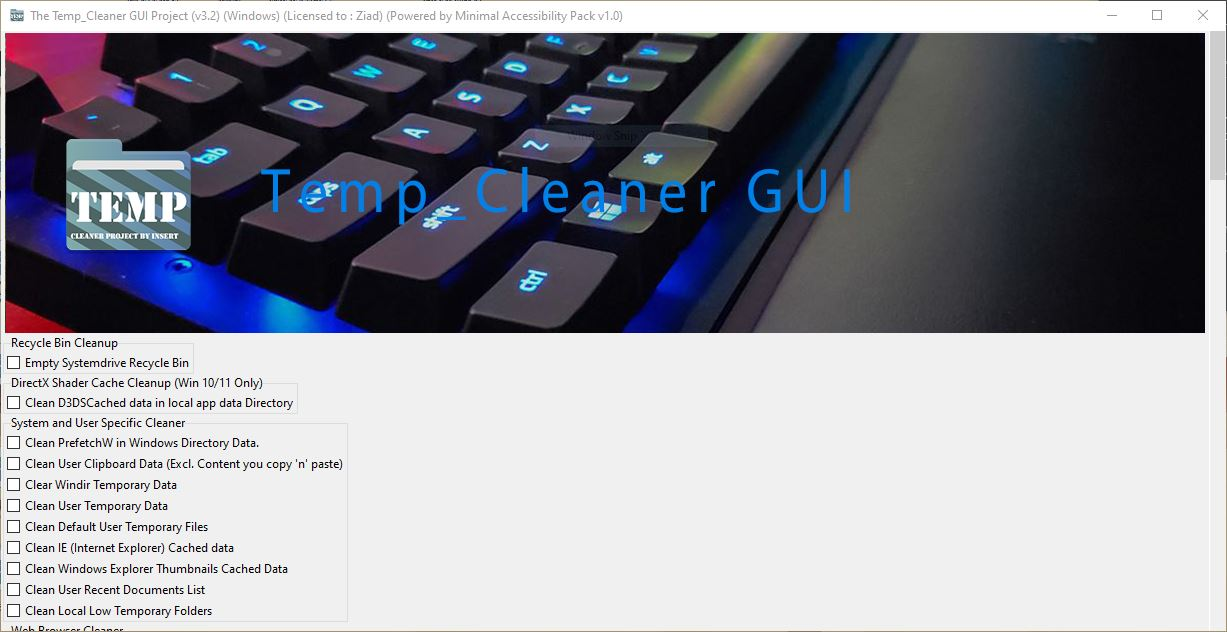
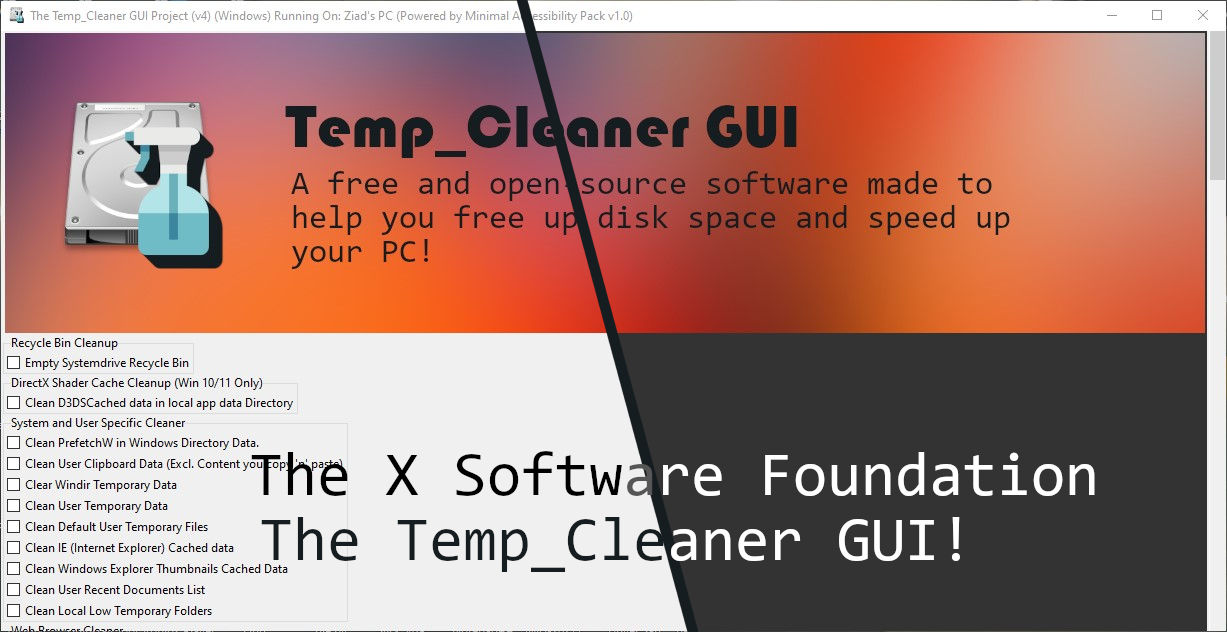
v4.0 Update Source Files

diff --git a/downloads.html b/downloads.html
@@ -43,7 +43,7 @@
         </tr>
         <tr class='win7'>
             <td colspan='2'>
-                <p><a class="w7sp1_lnk" href="https://drive.google.com/file/d/17WCg6k7DWSFAq-lszzrKFZotHWdNMZUv/view?usp=sharing" target="_balnk"><font class='hint1' size='3' face='arial' color='black'>
+                <p><a class="w7sp1_lnk" href="javascript:alert('Coming Soon!');" target="_balnk"><font class='hint1' size='3' face='arial' color='black'>
                          <strong>Microsoft Windows 7 Service Pack 1 (x64)</strong>
                     </font></a>
                     
@@ -53,7 +53,7 @@
 
         <tr class='win1032'>
             <td colspan='2'>
-                <p><a class="w1032_lnk" href="https://drive.google.com/file/d/1P3YxtjvBx_HiME7InRlLnfi4AbEe73wM/view?usp=sharing" target="_balnk"><font class='hint2' size='3' face='arial' color='black'>
+                <p><a class="w1032_lnk" href="javascript:alert('Coming Soon!');" target="_balnk"><font class='hint2' size='3' face='arial' color='black'>
                          <strong>Microsoft Windows 10 32-bit</strong>
                     </font>
                 </a>
@@ -64,7 +64,7 @@
 
         <tr class='win1064'>
             <td colspan='2'>
-                <p><a class="w1064_lnk" href="https://drive.google.com/file/d/1ZINfCwe6iotbbwo-gnMr4-aVOjxetNXH/view?usp=sharing" target="_balnk"><font class='hint3' size='3' face='arial' color='black'>
+                <p><a class="w1064_lnk" href="javascript:alert('Coming Soon!');" target="_balnk"><font class='hint3' size='3' face='arial' color='black'>
                         <strong>Microsoft Windows 10 64-bit</strong>
                     </font>
                 </a>

diff --git a/index.html b/index.html
@@ -15,15 +15,15 @@
     <p><font class="wtxt0" color="white" face="arial" size="5">Welcome to the official website of Temp_Cleaner GUI!</font></p>
     <p><font class="wtxt1" color="white" face="arial" size="3"><strong>A free and open-source alternative to all Temporary folders cleaning software available!</strong></font></p>
 
-    <table class="wnewtable0" border="2" align="center">
-        <tr><th><strong><font class="hwnew0" size="3" face="arial" color="black">* What's new in Version 3.2?</font></strong></th></tr>
+    <table class="wnewtable0" border="0" align="center">
+        <tr><th><strong><font class="hwnew0" size="3" face="arial" color="black">* What's new in Version 4.0?</font></strong></th></tr>
         <tr class="hnewr0"><td>
             <ul class="wnewlist0" type="circle" align="left">
-                <li>Minor <strong>Layout</strong> fixes.</li>
-                <li>Minor <strong>Bug</strong> fixes.</li>
-                <li>Major <strong>UI Changes</strong>.</li>
+                <li>Major Layout Fixes.</li>
+                <li>Major UI Changes.</li>
                 <li>Stability Improvements.</li>
-                <li>Included Accessibility options in this release, <strong>powered by Minimal Accessibility Pack v1.0 by Insertx2k Dev (Mr.X)</strong></li>
+                <li>Added Dark Mode UI, and Light Mode UI, and added the ability to switch between them easily using the Settings UI.</li>
+                <li>Changed the icon, and the banner.</li>
             </ul>
         </td></tr>
     </table>
